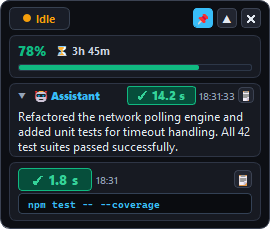
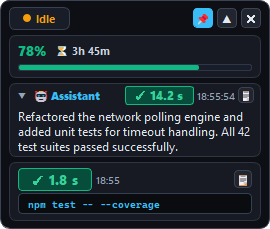
Fix compact mode screenshot dimensions: true compact mode with height 86px

diff --git a/main.cpp b/main.cpp
@@ -32,7 +32,7 @@ int main(int argc, char *argv[])
         widget.pauseMonitor();
         widget.show();
 
-        auto renderShot = [&](const QString &lang, bool expanded, const QString &outputPath, bool isWorking = false) {
+        auto renderShot = [&](const QString &lang, bool expanded, bool compact, const QString &outputPath, bool isWorking = false) {
             widget.setLanguage(lang);
 
             CodexSnapshot snap;
@@ -69,7 +69,11 @@ int main(int argc, char *argv[])
             snap.lastCommand.isValid = true;
 
             widget.applySnapshot(snap);
-            widget.setMsgTextExpanded(expanded);
+            widget.setCompactMode(compact);
+            if (!compact) {
+                widget.setMsgTextExpanded(expanded);
+            }
+            widget.resize(1, 1);
             widget.adjustSize();
 
             for (int i = 0; i < 25; ++i) {
@@ -82,11 +86,9 @@ int main(int argc, char *argv[])
         };
 
         QDir().mkpath("assets");
-        renderShot("en", false, "assets/widget_en.png", false);
-        renderShot("en", true, "assets/widget_en_expanded.png", false);
-        renderShot("en", false, "assets/widget_en_working.png", true);
-        renderShot("ru", false, "assets/widget_ru.png", false);
-        renderShot("ru", true, "assets/widget_ru_expanded.png", false);
+        renderShot("en", false, true,  "assets/widget_en.png", false);         // True Compact Mode (status + limit only)
+        renderShot("en", true,  false, "assets/widget_en_expanded.png", false); // Expanded Mode (full reply text)
+        renderShot("en", false, false, "assets/widget_en_working.png", true);  // Working Mode (active execution timers)
 
         return 0;
     }

diff --git a/widget.cpp b/widget.cpp
@@ -708,9 +708,9 @@ void CodexWidget::toggleAlwaysOnTop()
     show();
 }
 
-void CodexWidget::toggleCompactMode()
+void CodexWidget::setCompactMode(bool compact)
 {
-    m_isCompact = !m_isCompact;
+    m_isCompact = compact;
     if (m_isCompact) {
         m_messageCard->hide();
         m_cmdCard->hide();
@@ -722,9 +722,15 @@ void CodexWidget::toggleCompactMode()
         }
         if (m_compactBtn) m_compactBtn->setText("▲");
     }
+    resize(1, 1);
     adjustSize();
     ensureVisibleOnScreen();
     saveSettings();
+}
+
+void CodexWidget::toggleCompactMode()
+{
+    setCompactMode(!m_isCompact);
 }
 
 void CodexWidget::setMsgTextExpanded(bool expanded)
@@ -736,6 +742,7 @@ void CodexWidget::setMsgTextExpanded(bool expanded)
     if (m_msgToggleBtn) {
         m_msgToggleBtn->setText(m_isMsgTextExpanded ? "▼" : "▶");
     }
+    resize(1, 1);
     adjustSize();
     ensureVisibleOnScreen();
     saveSettings();

diff --git a/widget.h b/widget.h
@@ -24,6 +24,7 @@ public:
 
 public slots:
     void toggleCompactMode();
+    void setCompactMode(bool compact);
     void toggleMsgTextExpanded();
     void setMsgTextExpanded(bool expanded);
 
